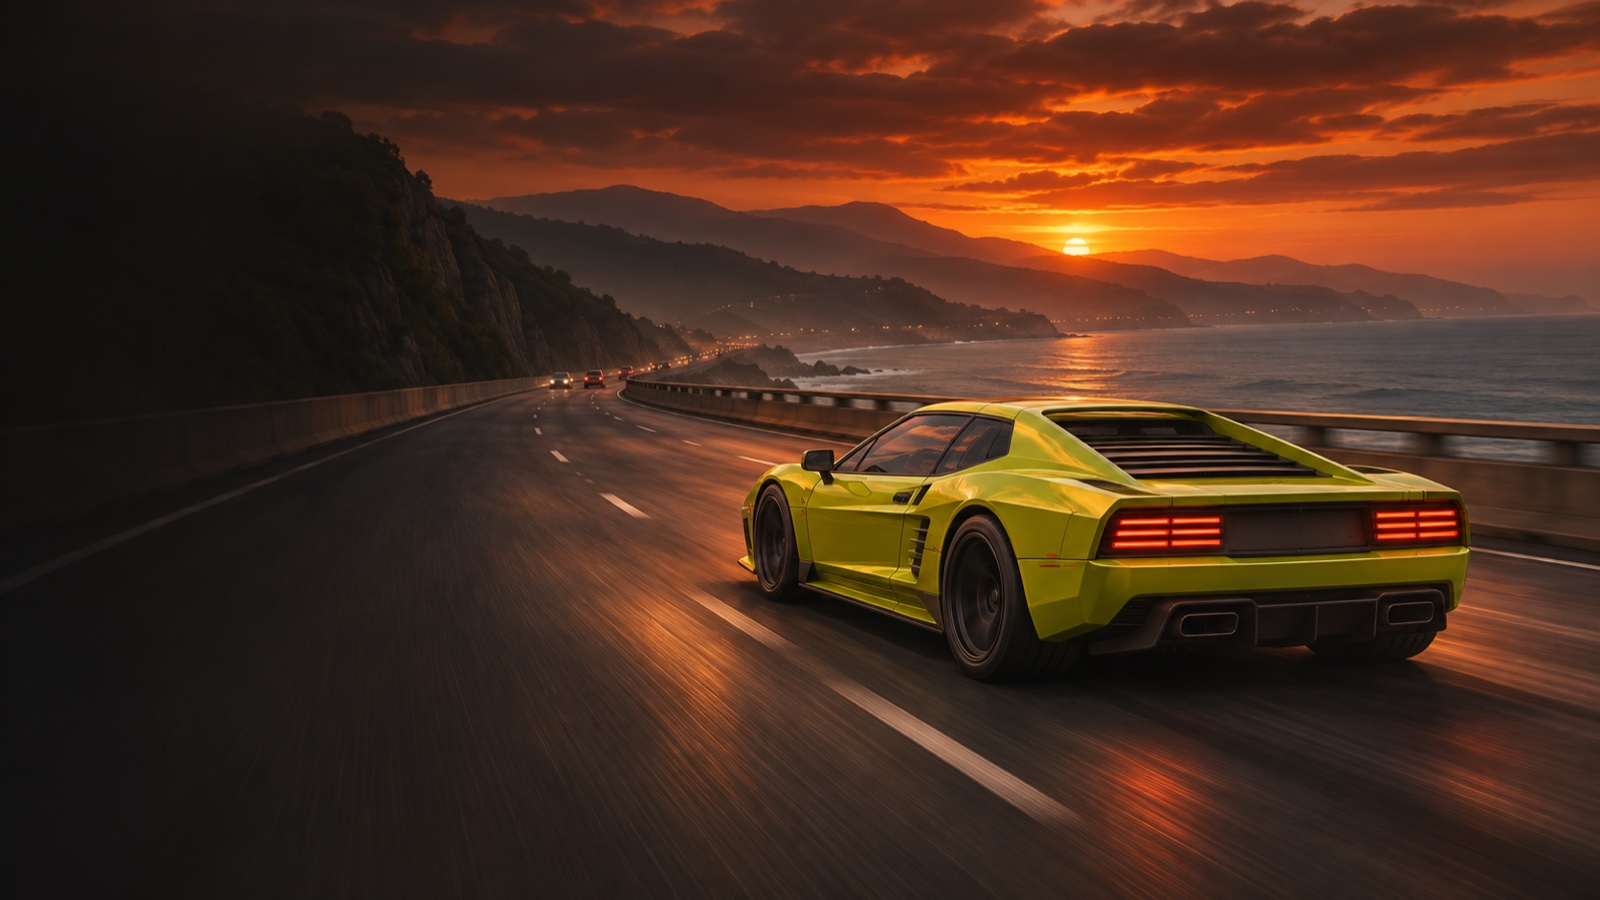
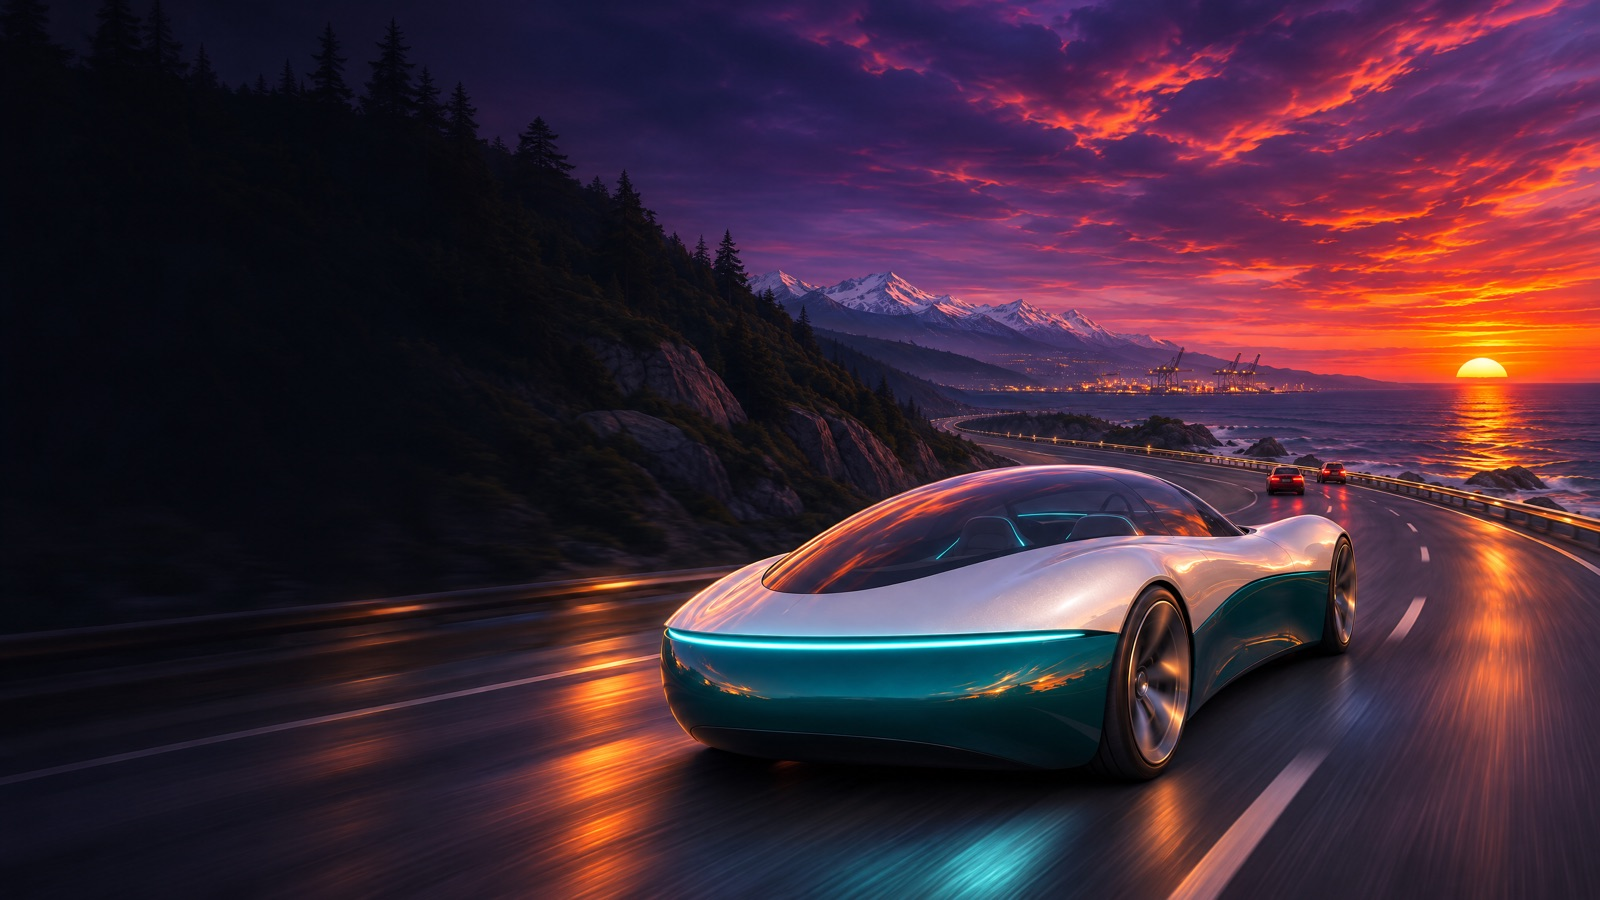
fix: 황혼 질주 첫 화면 큰 그림을 오리지널 차로(힉스필드, 운영자 승인) — 실제 스포츠카를 닮은 옛 그림 교체, 썸네일과 같은 차

diff --git a/web/games/embed/twilightrun/style.css b/web/games/embed/twilightrun/style.css
@@ -30,7 +30,7 @@ button, select { -webkit-tap-highlight-color: transparent; }
   display: grid;
   min-height: 100dvh;
   grid-template-rows: auto 1fr auto;
-  background: #252422 url('/assets/games/twilightrun/hero.jpg') center 45% / cover no-repeat;
+  background: #252422 url('/assets/games/twilightrun/hero.jpg?v=2') center 45% / cover no-repeat;
 }
 .home::before {
   content: '';
